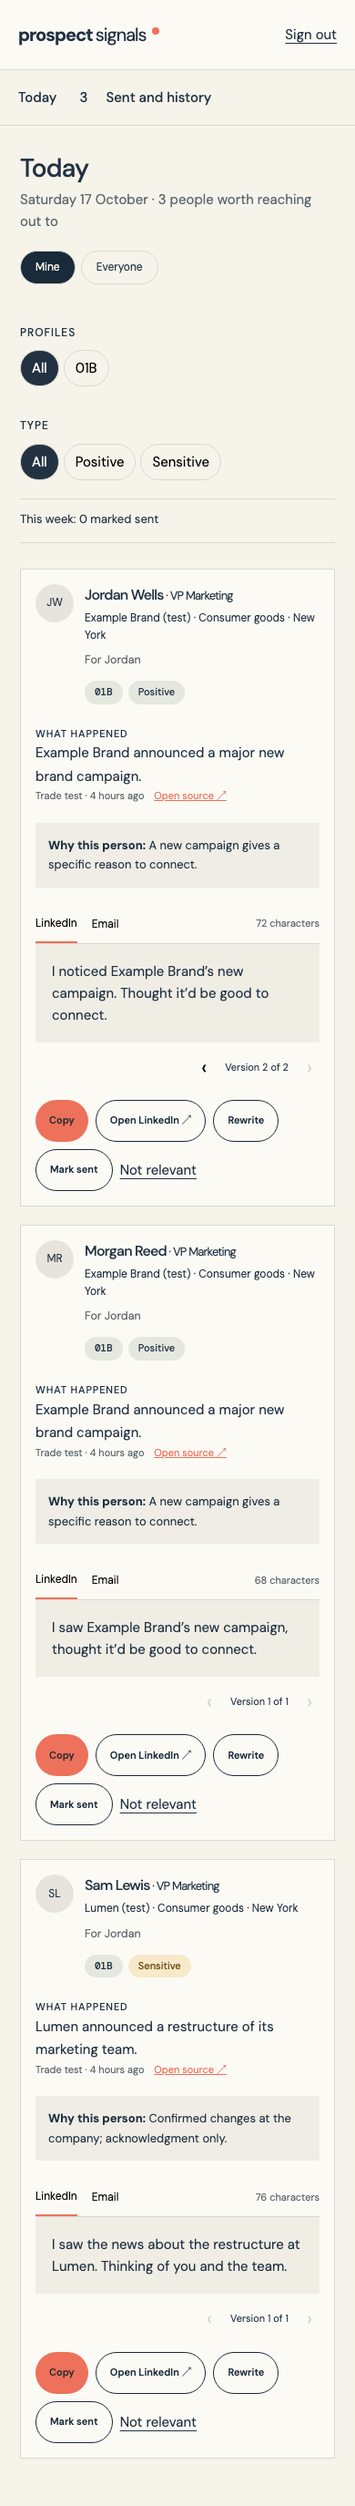
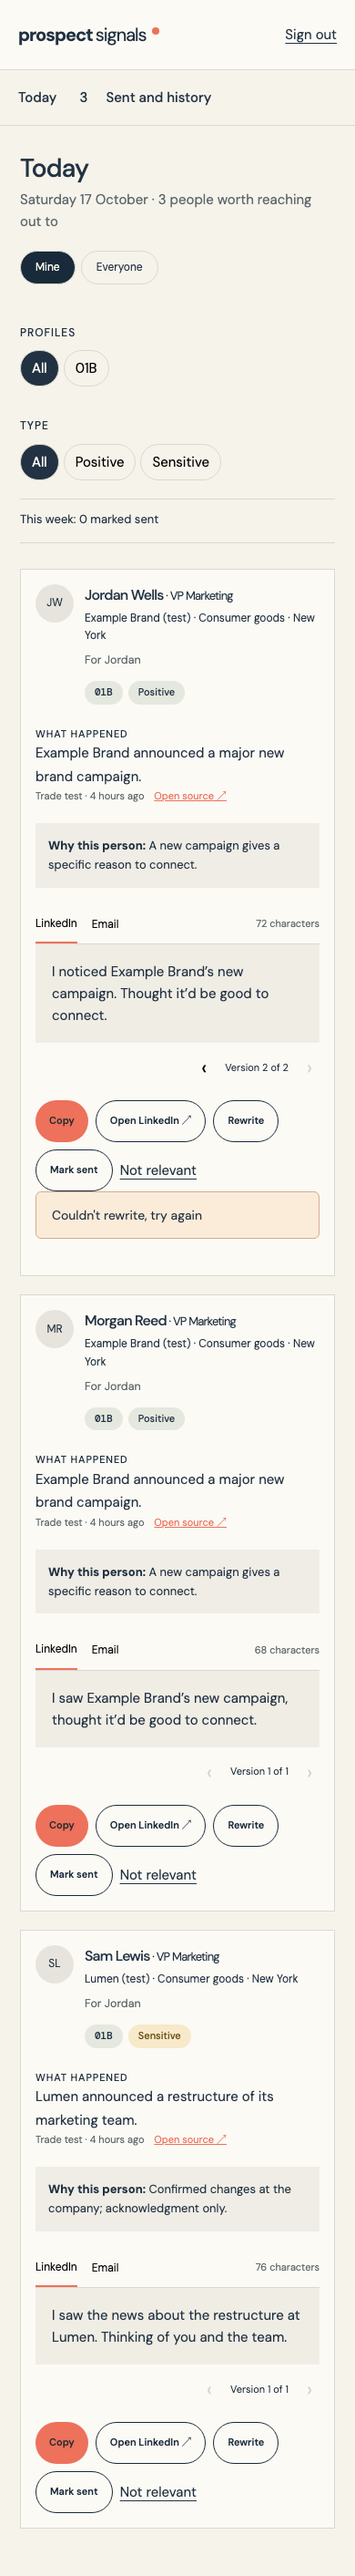
Verify rewrite failures, CSV permissions and settled provider costs

diff --git a/apps/signals/tests/browser/phase-eight.spec.ts b/apps/signals/tests/browser/phase-eight.spec.ts
@@ -24,6 +24,14 @@ test("Today keeps fresh rewrite versions, sends the visible one and moves feedba
   await expect(page.locator(".signal-card").last()).toContainText("Sensitive");
   await card.getByRole("button", { name: "Rewrite", exact: true }).click();
   await expect(card).toContainText("Version 2 of 2");
+  await request.post("http://127.0.0.1:54329/fixture/rewrite-failure", {
+    data: {},
+  });
+  await card.getByRole("button", { name: "Rewrite", exact: true }).click();
+  await expect(card.getByRole("status")).toContainText(
+    "Couldn't rewrite, try again",
+  );
+  await expect(card).toContainText("Version 2 of 2");
   await card.getByRole("button", { name: "Previous version" }).click();
   await expect(card).toContainText("Version 1 of 2");
   await card.getByRole("button", { name: "Next version" }).click();
@@ -61,9 +69,7 @@ test("Today keeps fresh rewrite versions, sends the visible one and moves feedba
   expect(
     events.find((e: any) => e.p_action === "marked_sent").p_draft,
   ).toBeTruthy();
-  await page
-    .getByRole("link", { name: /^Sent and history/ })
-    .click();
+  await page.getByRole("link", { name: /^Sent and history/ }).click();
   await expect(page.getByText("Sent linkedin · Version 2")).toBeVisible();
   await expect(
     page.getByText("Not relevant · Wrong person", { exact: true }),
@@ -78,9 +84,7 @@ test("Today keeps fresh rewrite versions, sends the visible one and moves feedba
       path: resolve(dir, `app-history-${width}.png`),
       fullPage: true,
     });
-    await proto
-      .getByRole("button", { name: /^Sent and history/ })
-      .click();
+    await proto.getByRole("button", { name: /^Sent and history/ }).click();
     await proto.screenshot({
       path: resolve(dir, `prototype-history-${width}.png`),
       fullPage: true,
@@ -92,4 +96,20 @@ test("Today keeps fresh rewrite versions, sends the visible one and moves feedba
   await expect(
     page.getByText("Restored to Today", { exact: true }),
   ).toBeVisible();
+});
+
+test("salespeople cannot export another recipient's history", async ({
+  page,
+}) => {
+  await page.goto("/login");
+  await page.getByLabel("Email address").fill("client@example.test");
+  await page
+    .getByLabel("Password", { exact: true })
+    .fill("correct-password-123");
+  await page.getByRole("button", { name: "Sign in", exact: true }).click();
+  await expect(page).toHaveURL(/\/today$/);
+  const response = await page.request.get(
+    "/history/export?workspace=10000000-0000-0000-0000-000000000001&show=everyone",
+  );
+  expect(response.status()).toBe(403);
 });

diff --git a/apps/signals/src/app/history/export/route.ts b/apps/signals/src/app/history/export/route.ts
@@ -1,7 +1,19 @@
+import { access } from "@/lib/access";
 import { cardContext } from "@/lib/cards";
 export async function GET(request: Request) {
-  const url = new URL(request.url),
-    ctx = await cardContext(Object.fromEntries(url.searchParams), true);
+  const url = new URL(request.url);
+  const permissions = await access("/history");
+  if (
+    !permissions.isAdmin &&
+    !permissions.members.some(
+      (m) =>
+        m.role === "client_admin" &&
+        (!url.searchParams.get("workspace") ||
+          m.workspace_id === url.searchParams.get("workspace")),
+    )
+  )
+    return new Response("Not allowed", { status: 403 });
+  const ctx = await cardContext(Object.fromEntries(url.searchParams), true);
   if (!ctx.data.can_export) return new Response("Not allowed", { status: 403 });
   const from = url.searchParams.get("from") ?? "",
     to = url.searchParams.get("to") ?? "";
@@ -9,7 +21,7 @@ export async function GET(request: Request) {
     return new Response("Invalid date", { status: 400 });
   const cell = (v: unknown) => {
     let s = String(v ?? "");
-    if (/^[=+@\-\t\r]/.test(s)) s = "'" + s;
+    if (/^\s*[=+@\-]/.test(s)) s = "'" + s;
     return '"' + s.replaceAll('"', '""') + '"';
   };
   const rows = ctx.data.cards

diff --git a/docs/signals-phase-7/provider-test.md b/docs/signals-phase-7/provider-test.md
@@ -1,0 +1,17 @@
+# Bounded production test, 17 October 2026
+
+Run: `0c7e7a08-5d62-4beb-8554-d34301cd9ecd`.
+
+45 previously collected items were still inside the 48-hour window. No new source data was purchased. The run ended partial, with no client delivery and no usable cards: 43 items didn't match a profile, one scored 5, and one scoring result failed evidence validation. No threshold was lowered to produce a sample.
+
+| Stage | Recorded cost GBP | Cache read input tokens | Cache creation input tokens |
+|---|---:|---:|---:|
+| Haiku triage | 0.003032 | 229,768 | 5,222 |
+| Sonnet score and write | 0.023639 | 9,420 | 4,710 |
+| Total | 0.026671 | 239,188 | 9,932 |
+
+All provider calls settled; no reservation is waiting for a batch receipt. No response stopped at max_tokens. Triage and scoring both confirmed real cache reads. The ledger includes failed validation costs and a canceled batch request. It doesn't hide a charge when a result can't be used.
+
+The test exposed two validator issues. Whole-word matching treated straight and curly apostrophes differently, incorrectly rejecting Arby’s. Normalising typographic quotes fixed this without admitting substring brand matches, and the original completed batch response was revalidated without another paid triage call. The email sentence counter also counted a greeting/sign-off as extra sentences; it now counts the body while still rejecting a fourth body sentence. Parsed complete outputs are retained under platform-only RLS for future validation audits. Truncated JSON is never parsed.
+
+The remaining failed score did not supply a supporting quote present in the evidence. It stays rejected. The original response isn't treated as a verified opener, and the run cannot pass the Go live gate. BEFORE:WORK remains in setup with no approved watch list, live recipient or real voice examples. Total normal client spend is £0.195211, leaving £9.804789 of its £10 budget; previous fake budget-test charges are excluded.

diff --git a/docs/signals-phase-8/README.md b/docs/signals-phase-8/README.md
@@ -32,3 +32,9 @@ Find a person checks the profile's approved watch-list people first. A paid fall
 ## Validation
 
 Schema checks cover cross-client access, salesperson/everyone restrictions and the exact sent draft version. Browser checks exercise rewrite navigation, sent, feedback, reply, restore and admin CSV access. Paired screenshots use fictional local fixtures, with no external email or paid model call.
+
+## Deployment record
+
+Migrations `20261017173136_signals_phase_eight.sql`, `20261017173146_signals_pipeline_minute_tick.sql`, `20261017173231_signals_person_lookup_audit.sql` and `20261017173402_signals_model_output_audit.sql` are applied. Pipeline v5 and collector v8 are active. Vercel deployment `dpl_4vnfY9iKnVRSTFw5ZK69rU9PqT6f` is Ready. Subsequent CSV export hardening is deployed in the next recorded app release.
+
+66 local tests pass. The 19 unchanged browser flows passed; the updated client-admin layout assertion and both Phase 8 flows pass separately, including a failed rewrite retaining the visible version and a salesperson receiving HTTP 403 for CSV. No real emails were sent. The bounded provider result is recorded in `docs/signals-phase-7/provider-test.md` and remains a partial test, not a launch approval.

diff --git a/docs/signals-phase-7/README.md b/docs/signals-phase-7/README.md
@@ -37,3 +37,5 @@ Pricing seeds were checked on 17 October 2026 against [Anthropic pricing](https:
 Migration `20261017170906_signals_phase_seven.sql` and scheduler `20261017171100_signals_pipeline_scheduler.sql` are applied. `signals-pipeline` v3 and `signals-collect` v7 are active. Vercel deployment `dpl_3wecJfudo1NzDLaWf5KaNJHRaSvT` is Ready.
 
 Real test `0c7e7a08-5d62-4beb-8554-d34301cd9ecd` reuses 45 still-fresh evidence items and buys no additional source data. Its first Haiku batch is queued with the provider. Provider completion, actual stage costs and cache reads remain to be verified. BEFORE:WORK remains in setup; no recipient emails are sent. Normal spend before judging is £0.168540; earlier fake budget charges are excluded.
+
+The bounded provider test has now settled. See [the provider test record](provider-test.md): £0.026671, cache hits at both stages, zero usable cards and one remaining evidence-validation failure. It remains partial and cannot authorize launch.
